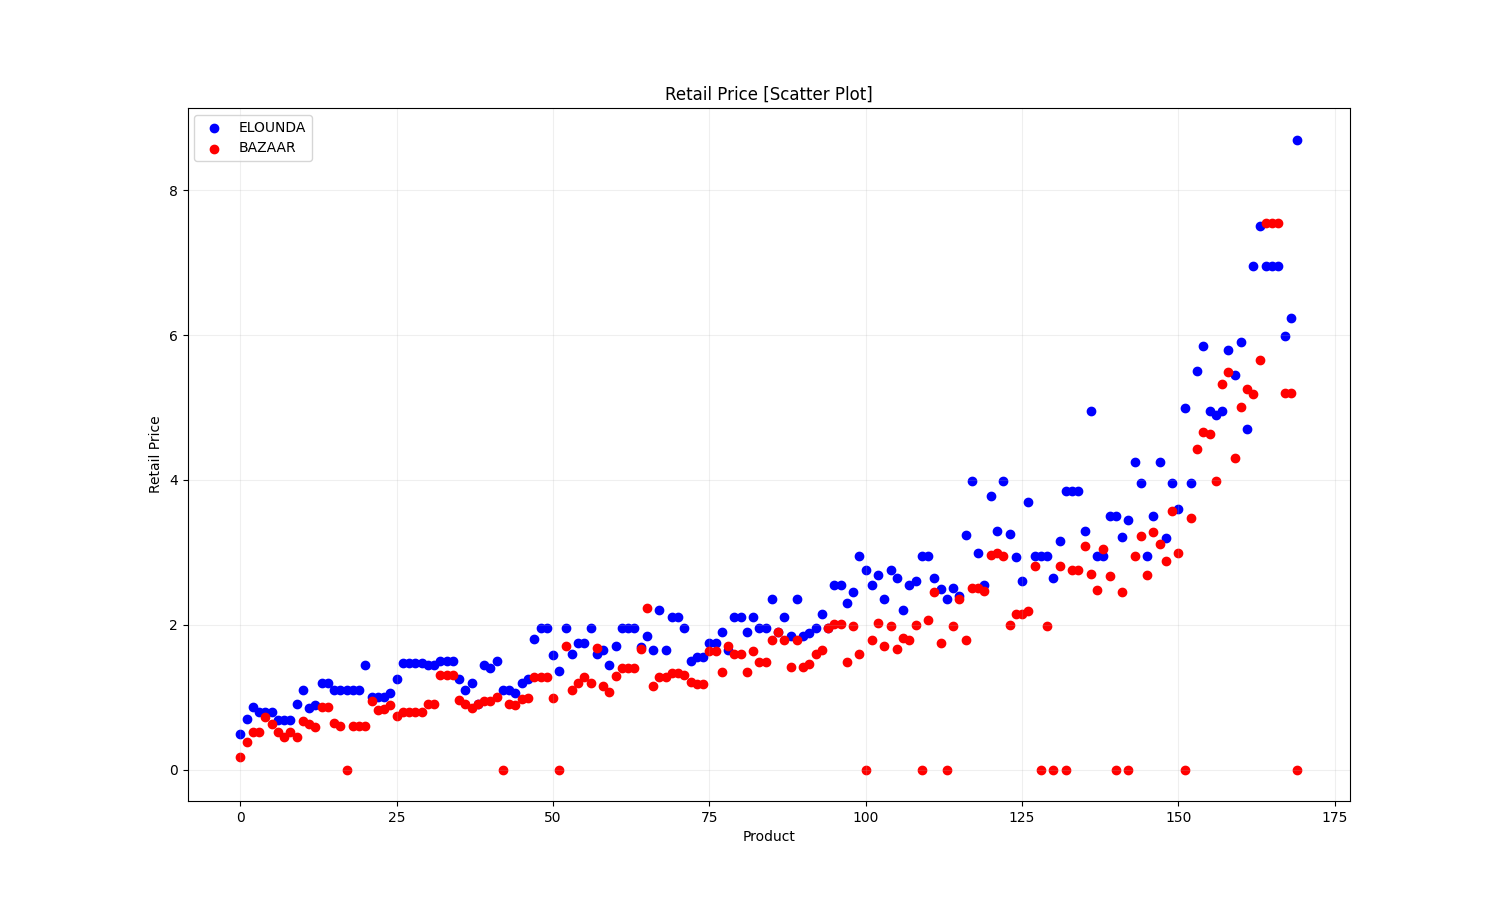
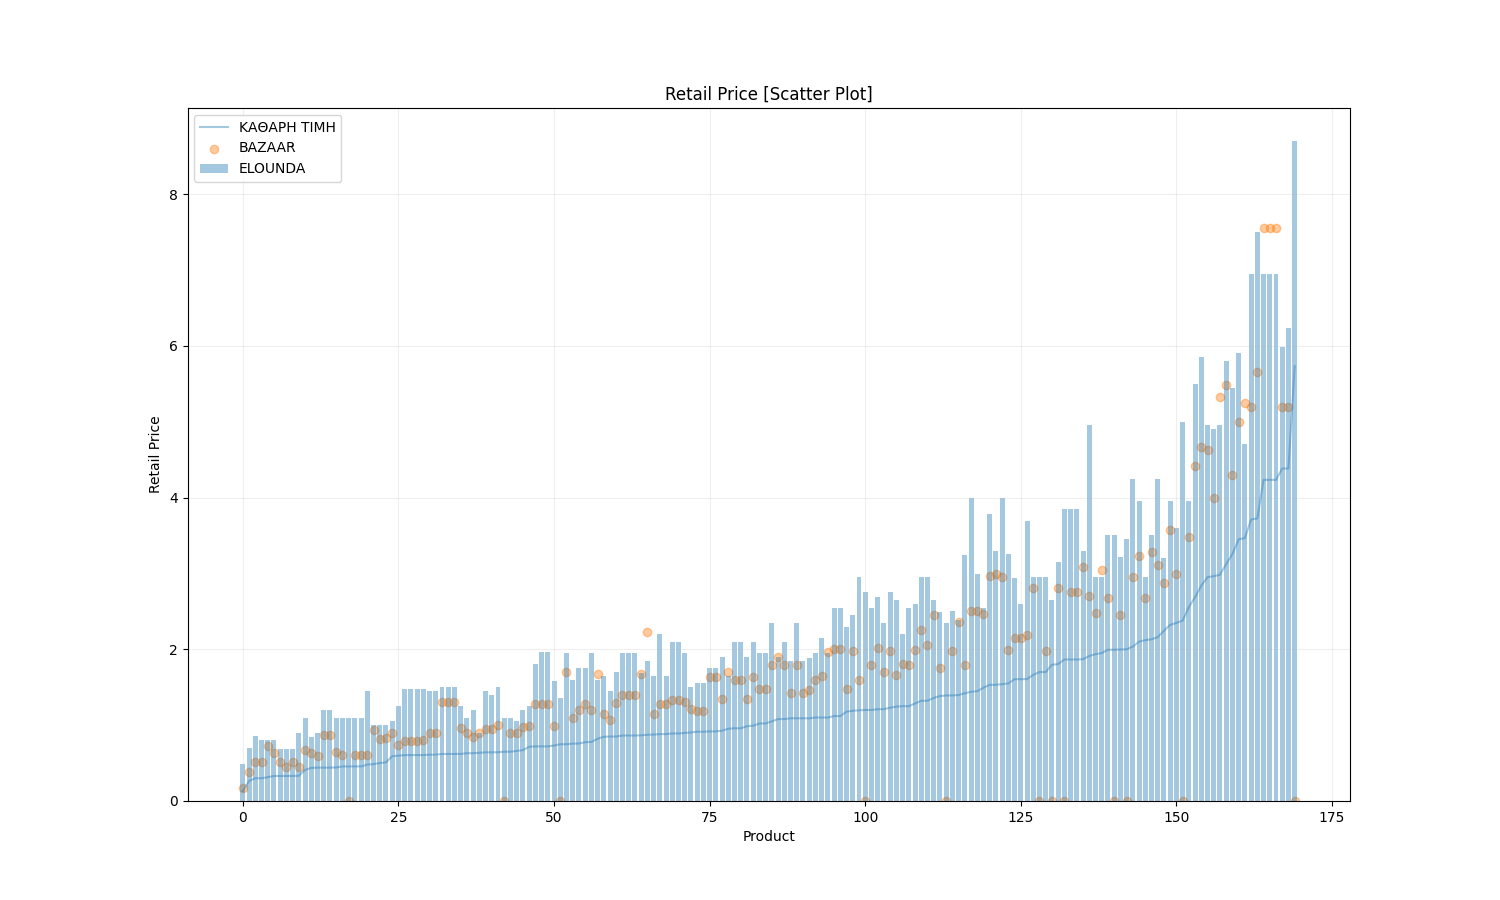
``@Ioannis E. Kommas (PyCharm Commit and Push Code Lines)``

Changed region(s): [[0.1533, 0.1556, 0.8893, 0.9333], [0.1227, 0.1244, 0.2453, 0.2178]]

diff --git a/DISCORD/main.py b/DISCORD/main.py
@@ -1,7 +1,6 @@
 #   Copyright (c) 2020. Ioannis E. Kommas. All Rights Reserved
 import os
 import discord
-from datetime import datetime as dt
 from Private import discord_app
 from DISCORD.DELETE import delete_chat
 from DISCORD.BARCODE import double_barcode_check
@@ -13,7 +12,7 @@ from DISCORD.KEROULIS import keroulis
 from DISCORD.MANAVIKI import manaviki
 from DISCORD.PAGOTA import pagota
 from DISCORD.DELTA import delta
-from DISCORD.ORDER import new_order
+from DISCORD.ORDER import new_order, check_available_order
 from DISCORD.BAZAAR import bazaar
 from DISCORD.VARDAS import vardas
 from DISCORD.PRE_COST_CALCULATION import pre_cost_calc
@@ -43,7 +42,7 @@ async def on_message(message):
         return
 
     # (-) (+) DAILY -------------------------------------------------------
-    if message.content.lower() == '+d':
+    if message.content.lower().startswith('refresh daily'):
         delete_chat.run(1)
         double_barcode_check.run()
         elounda.run()
@@ -58,50 +57,55 @@ async def on_message(message):
         await message.channel.send(response)
 
     # (-) (+) MONTHLY -------------------------------------------------------
-    if message.content.lower() == '+m':
+    if message.content.lower().startswith('refresh monthly'):
         delete_chat.run(4)
         pendings.run()
         vardas.run()
         response = 'MONTHLY ΕΚΚΡΕΜΟΤΗΤΕΣ: COMPLETE'
         await message.channel.send(response)
 
+    # (CHECK) ORDERS -------------------------------------------------------
+    if message.content.lower().startswith('orders?'):
+        response = check_available_order.run()
+        await message.channel.send(response)
+
     # (-) ORDERS -------------------------------------------------------
-    if message.content.lower() == '-o':
+    if message.content.lower().startswith('delete orders'):
         delete_chat.run(3)
         response = 'ΔΙΑΓΡΑΦΗ ΚΑΝΑΛΙ: ΠΑΡΑΓΓΕΛΙΕΣ: COMPLETE'
         await message.channel.send(response)
 
     # (+) ORDERS -------------------------------------------------------
-    if message.content.lower().split(' ')[0] == '+o':
+    if message.content.lower().startswith('add order'):
         try:
-            order_id = message.content.split(' ')[1]
+            order_id = message.content.split(' ')[2]
         except IndexError:
-            await message.channel.send('Η ΣΥΝΤΑΞΗ ΤΗΣ ΕΝΤΟΛΗΣ ΕΙΝΑΙ: +o-κενό-ΚΩΔΙΚΟΣ π.χ. +o 1234')
+            await message.channel.send('Η ΣΥΝΤΑΞΗ ΤΗΣ ΕΝΤΟΛΗΣ ΕΙΝΑΙ: {add order + __code__}')
             return
         new_order.run(order_id)
         response = f'ΚΑΤΑΧΩΡΗΣΗ ΠΑΡΑΓΓΕΛΙΑΣ {order_id}: COMPLETE'
         await message.channel.send(response)
 
     # (-) PRE COST CALC -------------------------------------------------------
-    if message.content.lower() == '-pc':
+    if message.content.lower().startswith('delete pre cost'):
         delete_chat.run(6)
         response = 'ΔΙΑΓΡΑΦΗ ΚΑΝΑΛΙ: ΠΡΟ ΚΟΣΤΟΛΟΓΗΣΗ: COMPLETE'
         await message.channel.send(response)
 
     # (+) PRE COST CALC -------------------------------------------------------
-    if message.content.lower().split(' ')[0] == '+pc':
+    if message.content.lower().startswith('add pre cost'):
         try:
-            pcc_id = message.content.split(' ')[1]
-            pcc_year = message.content.split(' ')[2]
+            pcc_id = message.content.split(' ')[3]
+            pcc_year = message.content.split(' ')[4]
         except IndexError:
-            await message.channel.send('Η ΣΥΝΤΑΞΗ ΤΗΣ ΕΝΤΟΛΗΣ ΕΙΝΑΙ: +PC-ΚΩΔΙΚΟΣ-ΕΤΟΣ π.χ. +pc 1234 2020')
+            await message.channel.send('Η ΣΥΝΤΑΞΗ ΤΗΣ ΕΝΤΟΛΗΣ ΕΙΝΑΙ: {add pre cost + __code__ + __year__}')
             return
         pre_cost_calc.run(pcc_id, pcc_year)
         response = f"ΠΡΟΚΟΣΤΟΛΟΓΗΣΗ [{pcc_id}]: COMPLETE"
         await message.channel.send(response)
 
     # (-) (+) BAZAAR -------------------------------------------------------
-    if message.content.lower() == 'bazaar':
+    if message.content.lower().startswith('add bazaar'):
         delete_chat.run(5)
         bazaar.run()
         response = 'ΚΑΤΑΧΩΡΗΣΗ ΤΙΜΟΛΟΓΙΩΝ BAZAAR: COMPLETE'

diff --git a/DISCORD/BAZAAR/plot.py b/DISCORD/BAZAAR/plot.py
@@ -6,12 +6,14 @@ def run(sql_answer, retail_price):
     # create your figure here
     plt.figure(figsize=(15, 9))
     plt.subplot(xlabel='Product', ylabel='Retail Price', title='Retail Price [Scatter Plot]')
-    plt.scatter(range(len(sql_answer)), retail_price, marker='o', color='blue', label='ELOUNDA')
-    plt.scatter(range(len(sql_answer)), sql_answer['ΤΙΜΗ BAZAAR'], marker='o', color='red', label='BAZAAR')
+    plt.bar(range(len(sql_answer)), retail_price, label='ELOUNDA', alpha=.4)
+    plt.scatter(range(len(sql_answer)), sql_answer['ΤΙΜΗ BAZAAR'], marker='o', label='BAZAAR', alpha=.4)
+    plt.plot(range(len(sql_answer)), sql_answer['ΚΑΘΑΡΗ ΤΙΜΗ'], label='ΚΑΘΑΡΗ ΤΙΜΗ', alpha=.4)
     # plt.scatter(range(len(sql_answer)), sql_answer['TIMH ΒΑΣΙΛΟΠΟΥΛΟΣ'], marker='o', color='green',
-    # label='ΒΑΣΙΛΟΠΟΥΛΟΣ') plt.scatter(range(len(sql_answer)), sql_answer['TIMH Care Market'], marker='o',
+    # label='ΒΑΣΙΛΟΠΟΥΛΟΣ')
+    # plt.scatter(range(len(sql_answer)), sql_answer['TIMH Care Market'], marker='o',
     # color='black', label='Care Market')
     plt.grid(True, alpha=0.2)
     plt.legend()
-    plt.savefig('views.png')
+    plt.savefig('images/bazaar_views.png')
     # plt.show()

diff --git a/DISCORD/ORDER/check_available_order.py b/DISCORD/ORDER/check_available_order.py
@@ -1,0 +1,25 @@
+#   Copyright (c) 2020. Ioannis E. Kommas. All Rights Reserved
+from Private import sql_connect
+from DISCORD.ORDER import sql
+import pandas as pd
+
+
+def run():
+    def katastima(x):
+        if x in ['00', '01']:
+            return 'ΚΕΝΤΡΙΚΑ ΕΔΡΑΣ (ΣΧΙΣΜΑ ΕΛΟΥΝΤΑΣ)'
+        elif x == '10':
+            return 'ΛΑΤΟ 01 (ΑΚΤΗ ΙΩΣΗΦ ΚΟΥΝΔΟΥΡΟΥ 11)'
+        elif x == '20':
+            return 'ΛΑΤΟ 02 (28ΗΣ ΟΚΤΩΒΡΙΟΥ 6)'
+        elif x == '30':
+            return 'ΛΑΤΟ 03 (ΑΓ. ΙΩΑΝΝΗΣ 29)'
+
+
+    answer_01 = pd.read_sql_query(sql.available_orders(), sql_connect.sql_cnx())
+    answer_01['Store'] = answer_01['PdaId'].apply(katastima)
+    if len(answer_01)==0:
+        return 'ΔΕΝ ΥΠΑΡΧΟΥΝ ΕΓΓΡΑΦΕΣ (ΠΑΡΑΓΓΕΛΙΕΣ)'
+    else:
+        return f'{answer_01}'
+

diff --git a/DISCORD/VARDAS/vardas.py b/DISCORD/VARDAS/vardas.py
@@ -19,16 +19,17 @@ def run():
 
         def __str__(self):
             return f"""
->:python: :  ΜΗΝΙΑΙΟ ΔΗΜΟΣΙΕΥΜΑ [ΕΜΜΑΝΟΥΗΛ ΒΑΡΔΑΣ (ΠΕΚ)] (0.06 EUR * ΠΟΣΟΤΗΤΑ) - (ΑΘΡΟΙΣΜΑ ΠΙΣΤΩΤΙΚΩΝ)
+>:python: :  ΜΗΝΙΑΙΟ ΔΗΜΟΣΙΕΥΜΑ [ΕΜΜΑΝΟΥΗΛ ΒΑΡΔΑΣ (ΠΕΚ)] 
+> ΥΠΟΛΟΓΙΣΜΟΣ (0.06 EUR * ΠΟΣΟΤΗΤΑ_ΠΩΛΗΣΕΩΝ) - (ΑΘΡΟΙΣΜΑ ΠΙΣΤΩΤΙΚΩΝ)
 >ΠΩΛΗΣΕΙΣ:
 ```{self.poliseis}```
 >ΠΙΣΤΩΤΙΚΑ:
 ```{pistotika}```
 >ΚΑΘΑΡΟ ΥΠΟΛΟΙΠΟ:
+` (0.06 * {self.poliseis.SalesQuantity[0]} ) - ({self.money_back})`
 ` {self.tziros} - {self.money_back} = {self.ypoloipo} EUR`
 >:fbwow:
     """
-
 
     today = datetime.now()
     dates = pd.date_range('2018-11-1', today)

diff --git a/DISCORD/ORDER/sql.py b/DISCORD/ORDER/sql.py
@@ -54,4 +54,16 @@ SELECT
 """
 
 
-
+def available_orders():
+    return  """
+    SELECT  
+            IMP_MobileDocumentHeaders.Code,
+            IMP_MobileDocumentHeaders.PdaId,
+            ESFITradeAccount.Name
+            from IMP_MobileDocumentHeaders
+            left join ESFITradeAccount on IMP_MobileDocumentHeaders.Supplier = ESFITradeAccount.GID
+            where DATEPART(yyyy,Date) = DATEPART(yyyy,getdate())
+            and OrderType = 'ΠΠΡ'
+            and CheckState is null -- καταχωρημένο όχι (στο PC)
+            and Ιntegrated = 1 -- ολοκληρωμένο ναι (στο PDA)     
+    """

diff --git a/DISCORD/BAZAAR/excel.py b/DISCORD/BAZAAR/excel.py
@@ -47,6 +47,6 @@ def export(path_to_file, sql_answer):
 
             # Conditional Formating
             worksheet.conditional_format('H1:H1500', {'type': '3_color_scale'})
-            worksheet.merge_range(f"A{length}:K{length}", f'BRAND: {i} EΓΓΡΑΦΕΣ: {len(i)} ', center)
+            worksheet.merge_range(f"A{length}:K{length}", f'BRAND NAME: {i}', center)
 
             length += len(sql_answer[sql_answer['BRAND'] == i]) + 3

diff --git a/DISCORD/BAZAAR/slack.py b/DISCORD/BAZAAR/slack.py
@@ -10,4 +10,4 @@ def run(order_id, output_file, path_to_file):
     """
     slack_app.send_text(slack_output_text, slack_app.channels[5])
     slack_app.send_files(output_file, path_to_file, 'xlsx', slack_app.channels[5])
-    slack_app.send_files('views.png', 'views.png', 'png', slack_app.channels[5])
+    slack_app.send_files('bazaar_views.png', 'images/bazaar_views.png', 'png', slack_app.channels[5])

diff --git a/test.py b/test.py
@@ -1,7 +1,10 @@
 #   Copyright (c) 2020. Ioannis E. Kommas. All Rights Reserved
 
 
+a = 'ela re malaka'
 
-x = input()
-if x.lower() == "a":
+if (a.split()[0] + a.split()[1]) == 'elare':
     print('ok')
+
+x =a.startswith('ela re')
+print(x)
